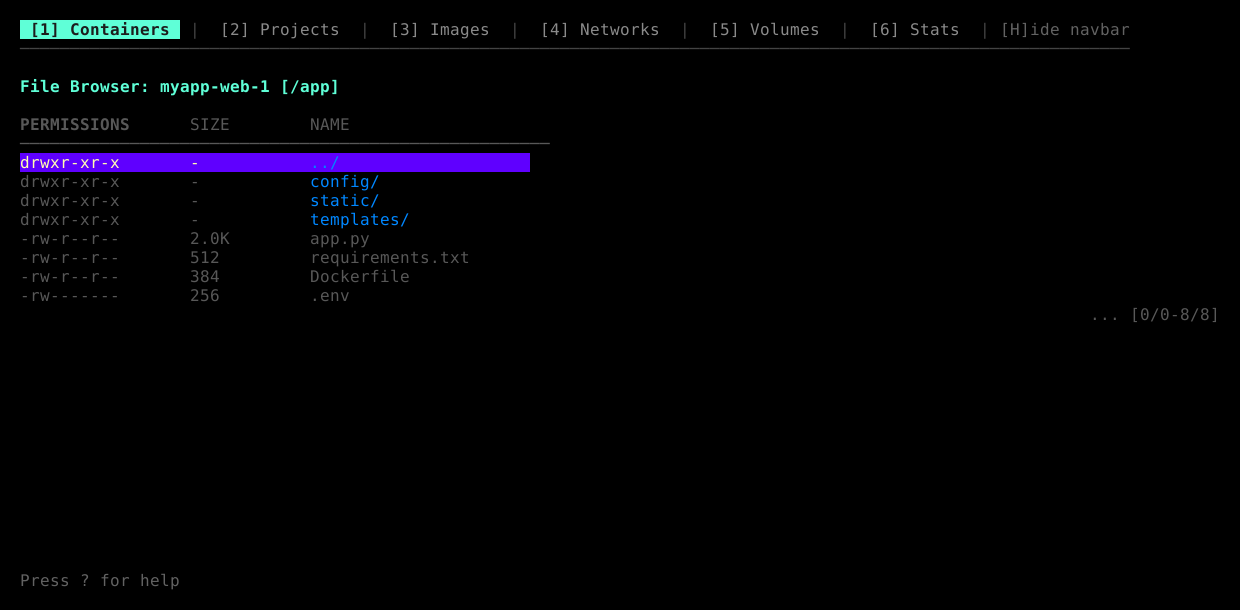
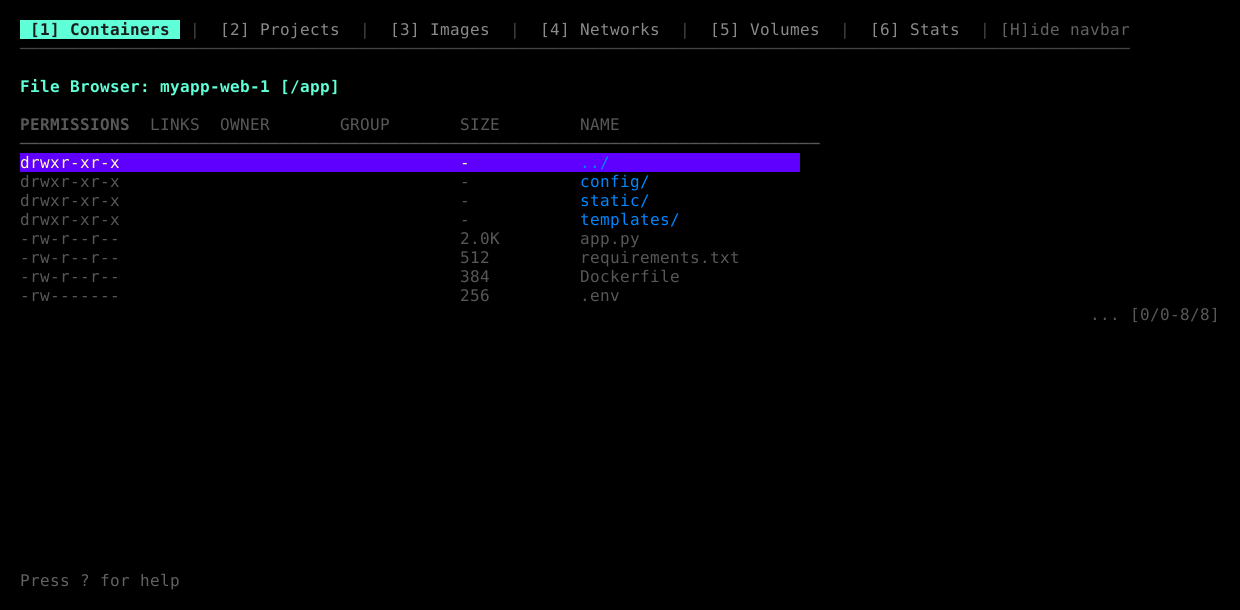
feat: enhance file browser to show all ls -la details
- Add owner, group, and number of links columns to file browser
- Update ContainerFile struct to include owner, group, and links fields
- Update ParseLsOutput to extract owner and group information
- Update dcv-helper to output ls -la compatible format with uid/gid
- Display complete file information similar to standard ls -la output
- Fix tests to handle new fields and ignore ModTime comparison

diff --git a/internal/models/container_file_test.go b/internal/models/container_file_test.go
@@ -27,6 +27,9 @@ drwxr-xr-x  2 root root 4096 Dec 15 10:20 src
 					Mode:        "drwxr-xr-x",
 					Size:        4096,
 					IsDir:       true,
+					Links:       "3",
+					Owner:       "root",
+					Group:       "root",
 				},
 				{
 					Name:        "..",
@@ -34,6 +37,9 @@ drwxr-xr-x  2 root root 4096 Dec 15 10:20 src
 					Mode:        "drwxr-xr-x",
 					Size:        4096,
 					IsDir:       true,
+					Links:       "1",
+					Owner:       "root",
+					Group:       "root",
 				},
 				{
 					Name:        "config.json",
@@ -41,6 +47,9 @@ drwxr-xr-x  2 root root 4096 Dec 15 10:20 src
 					Mode:        "-rw-r--r--",
 					Size:        1024,
 					IsDir:       false,
+					Links:       "1",
+					Owner:       "root",
+					Group:       "root",
 				},
 				{
 					Name:        "src",
@@ -48,6 +57,9 @@ drwxr-xr-x  2 root root 4096 Dec 15 10:20 src
 					Mode:        "drwxr-xr-x",
 					Size:        4096,
 					IsDir:       true,
+					Links:       "2",
+					Owner:       "root",
+					Group:       "root",
 				},
 				{
 					Name:        "app.sh",
@@ -55,6 +67,9 @@ drwxr-xr-x  2 root root 4096 Dec 15 10:20 src
 					Mode:        "-rwxr-xr-x",
 					Size:        2048,
 					IsDir:       false,
+					Links:       "1",
+					Owner:       "root",
+					Group:       "root",
 				},
 			},
 		},
@@ -71,6 +86,9 @@ lrwxrwxrwx  1 root root   10 Dec 15 10:30 link -> /etc/hosts
 					Size:        10,
 					IsDir:       false,
 					LinkTarget:  "/etc/hosts",
+					Links:       "1",
+					Owner:       "root",
+					Group:       "root",
 				},
 				{
 					Name:        "file.txt",
@@ -78,6 +96,9 @@ lrwxrwxrwx  1 root root   10 Dec 15 10:30 link -> /etc/hosts
 					Mode:        "-rw-r--r--",
 					Size:        1024,
 					IsDir:       false,
+					Links:       "1",
+					Owner:       "root",
+					Group:       "root",
 				},
 			},
 		},
@@ -93,6 +114,9 @@ drwxr-xr-x  2 root root 4096 Dec 15 10:20 my folder`,
 					Mode:        "-rw-r--r--",
 					Size:        1024,
 					IsDir:       false,
+					Links:       "1",
+					Owner:       "root",
+					Group:       "root",
 				},
 				{
 					Name:        "my folder",
@@ -100,6 +124,9 @@ drwxr-xr-x  2 root root 4096 Dec 15 10:20 my folder`,
 					Mode:        "drwxr-xr-x",
 					Size:        4096,
 					IsDir:       true,
+					Links:       "2",
+					Owner:       "root",
+					Group:       "root",
 				},
 			},
 		},
@@ -118,7 +145,25 @@ drwxr-xr-x  2 root root 4096 Dec 15 10:20 my folder`,
 	for _, tt := range tests {
 		t.Run(tt.name, func(t *testing.T) {
 			result := ParseLsOutput(tt.input)
-			assert.Equal(t, tt.expected, result)
+
+			// Check length first
+			assert.Equal(t, len(tt.expected), len(result))
+
+			// Compare each file, ignoring ModTime
+			for i := range tt.expected {
+				if i < len(result) {
+					assert.Equal(t, tt.expected[i].Name, result[i].Name)
+					assert.Equal(t, tt.expected[i].Permissions, result[i].Permissions)
+					assert.Equal(t, tt.expected[i].Mode, result[i].Mode)
+					assert.Equal(t, tt.expected[i].Size, result[i].Size)
+					assert.Equal(t, tt.expected[i].IsDir, result[i].IsDir)
+					assert.Equal(t, tt.expected[i].LinkTarget, result[i].LinkTarget)
+					assert.Equal(t, tt.expected[i].Owner, result[i].Owner)
+					assert.Equal(t, tt.expected[i].Group, result[i].Group)
+					assert.Equal(t, tt.expected[i].Links, result[i].Links)
+					// ModTime is set to current time, so we don't compare it
+				}
+			}
 		})
 	}
 }

diff --git a/internal/docker/file_operations.go b/internal/docker/file_operations.go
@@ -4,8 +4,6 @@ import (
 	"context"
 	"fmt"
 	"log/slog"
-	"strings"
-	"time"
 
 	"github.com/docker/docker/client"
 
@@ -132,54 +130,9 @@ func (fo *FileOperations) getFileContentWithHelper(ctx context.Context, containe
 }
 
 // parseHelperLsOutput parses the output from our helper's ls command
-// The format is similar to ls -la but simplified:
-// dRWXRWXRWX      4096 dirname
-// -rwxr-xr-x       123 filename
-
-// TODO: helper に`ls -la` と同等の出力をさせる｡
+// The format is now similar to ls -la:
+// drwxr-xr-x  2 uid gid 4096 Jan 1 00:00 dirname
 func parseHelperLsOutput(output string) []models.ContainerFile {
-	var files []models.ContainerFile
-	lines := strings.Split(strings.TrimSpace(output), "\n")
-
-	for _, line := range lines {
-		if line == "" {
-			continue
-		}
-
-		// Parse helper output format
-		parts := strings.Fields(line)
-		if len(parts) < 3 {
-			continue
-		}
-
-		file := models.ContainerFile{
-			Permissions: parts[0][1:], // Skip the type character
-			Mode:        parts[0],
-			IsDir:       parts[0][0] == 'd',
-		}
-
-		// Parse size
-		var size int64
-		_, _ = fmt.Sscanf(parts[1], "%d", &size)
-		file.Size = size
-
-		// Get filename (everything from parts[2] onwards)
-		file.Name = strings.Join(parts[2:], " ")
-
-		// Handle symlinks (file -> target)
-		if strings.Contains(file.Name, " -> ") {
-			linkParts := strings.Split(file.Name, " -> ")
-			file.Name = linkParts[0]
-			if len(linkParts) > 1 {
-				file.LinkTarget = linkParts[1]
-			}
-		}
-
-		// Set modification time to current time (helper doesn't provide timestamps)
-		file.ModTime = time.Now()
-
-		files = append(files, file)
-	}
-
-	return files
+	// The helper now outputs in ls -la format, so we can reuse the standard parser
+	return models.ParseLsOutput(output)
 }

diff --git a/cmd/dcv-helper/main.go b/cmd/dcv-helper/main.go
@@ -6,6 +6,7 @@ import (
 	"fmt"
 	"io"
 	"os"
+	"syscall"
 )
 
 const version = "1.0.0"
@@ -73,7 +74,7 @@ func cmdLs() {
 	}
 }
 
-// printFileInfo prints file information in a simple format
+// printFileInfo prints file information in ls -la compatible format
 func printFileInfo(info os.FileInfo) {
 	mode := info.Mode()
 	typeChar := '-'
@@ -92,12 +93,30 @@ func printFileInfo(info os.FileInfo) {
 		typeChar = 's'
 	}
 
-	// Format: type permissions size name
-	// Simple format: drwxr-xr-x 4096 dirname
-	fmt.Printf("%c%s %10d %s\n",
+	// Get uid/gid if available
+	uid := "0"
+	gid := "0"
+	nlinks := "1"
+
+	if sys, ok := info.Sys().(*syscall.Stat_t); ok {
+		uid = fmt.Sprintf("%d", sys.Uid)
+		gid = fmt.Sprintf("%d", sys.Gid)
+		nlinks = fmt.Sprintf("%d", sys.Nlink)
+	}
+
+	// Format similar to ls -la:
+	// drwxr-xr-x  2 uid gid 4096 Dec 15 10:30 dirname
+	// Using numeric uid/gid since we can't resolve to names without /etc/passwd
+	fmt.Printf("%c%s %3s %5s %5s %10d %s %s %s %s\n",
 		typeChar,
 		formatMode(mode),
+		nlinks,
+		uid,
+		gid,
 		info.Size(),
+		"Jan",   // Placeholder month
+		"1",     // Placeholder day
+		"00:00", // Placeholder time
 		info.Name(),
 	)
 }

diff --git a/internal/ui/view_file_browser.go b/internal/ui/view_file_browser.go
@@ -79,9 +79,12 @@ func (m *FileBrowserViewModel) render(model *Model, availableHeight int) string 
 
 	// Create table
 	columns := []table.Column{
-		{Title: "PERMISSIONS", Width: 15}, // Fixed width for permissions display
-		{Title: "SIZE", Width: 10},        // Fixed width for size display
-		{Title: "NAME", Width: -1},
+		{Title: "PERMISSIONS", Width: 11}, // drwxrwxrwx format
+		{Title: "LINKS", Width: 5},        // Number of hard links
+		{Title: "OWNER", Width: 10},       // Owner name
+		{Title: "GROUP", Width: 10},       // Group name
+		{Title: "SIZE", Width: 10},        // File size
+		{Title: "NAME", Width: -1},        // File/directory name (takes remaining space)
 	}
 
 	return m.RenderTable(model, columns, availableHeight, func(row, col int) lipgloss.Style {
@@ -109,7 +112,14 @@ func (m *FileBrowserViewModel) buildRows() []table.Row {
 			name = linkStyle.Render(name)
 		}
 
-		rows = append(rows, table.Row{file.Permissions, file.GetSizeString(), name})
+		rows = append(rows, table.Row{
+			file.Permissions,
+			file.Links,
+			file.Owner,
+			file.Group,
+			file.GetSizeString(),
+			name,
+		})
 	}
 	return rows
 }

diff --git a/internal/models/container_file.go b/internal/models/container_file.go
@@ -15,6 +15,9 @@ type ContainerFile struct {
 	IsDir       bool
 	LinkTarget  string
 	Permissions string
+	Owner       string
+	Group       string
+	Links       string // Number of hard links
 }
 
 // ParseLsOutput parses the output of ls -la command
@@ -39,12 +42,21 @@ func ParseLsOutput(output string) []ContainerFile {
 			Permissions: parts[0],
 			Mode:        parts[0],
 			IsDir:       strings.HasPrefix(parts[0], "d"),
+			Links:       parts[1], // Number of hard links
+			Owner:       parts[2], // Owner name
+			Group:       parts[3], // Group name
 		}
 
 		// Parse size (parts[4] contains the size in bytes)
 		if size, err := strconv.ParseInt(parts[4], 10, 64); err == nil {
 			file.Size = size
 		}
+
+		// Parse date and time (parts[5], [6], [7])
+		// Format can be: "Dec 15 10:30" or "Dec 15 2023" depending on age
+		// For now, we'll keep it simple and use current time
+		// TODO: Parse actual date/time from ls output
+		file.ModTime = time.Now()
 
 		// Get filename (handle spaces in filename)
 		// Everything from parts[8] onwards is the filename
